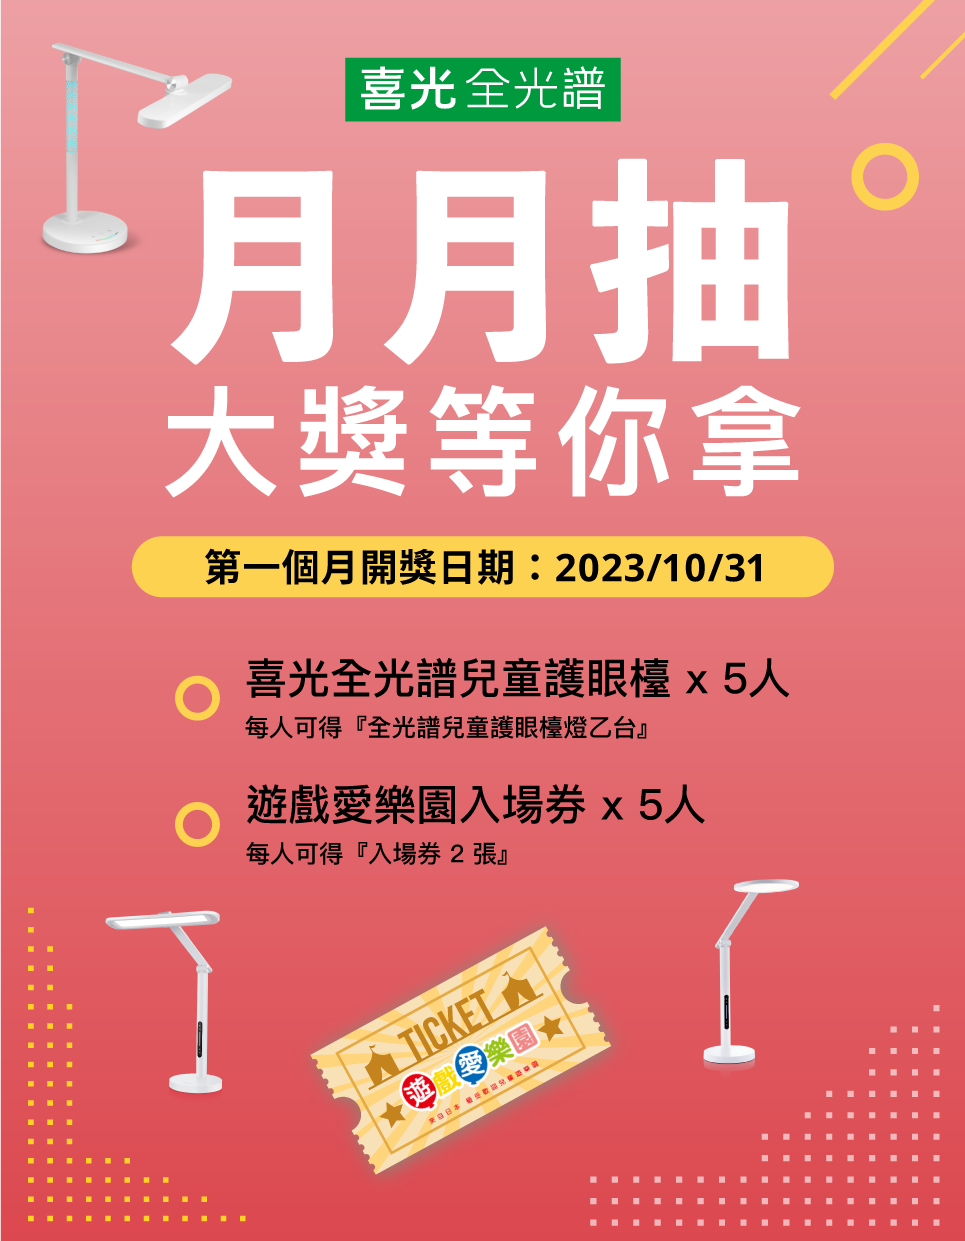
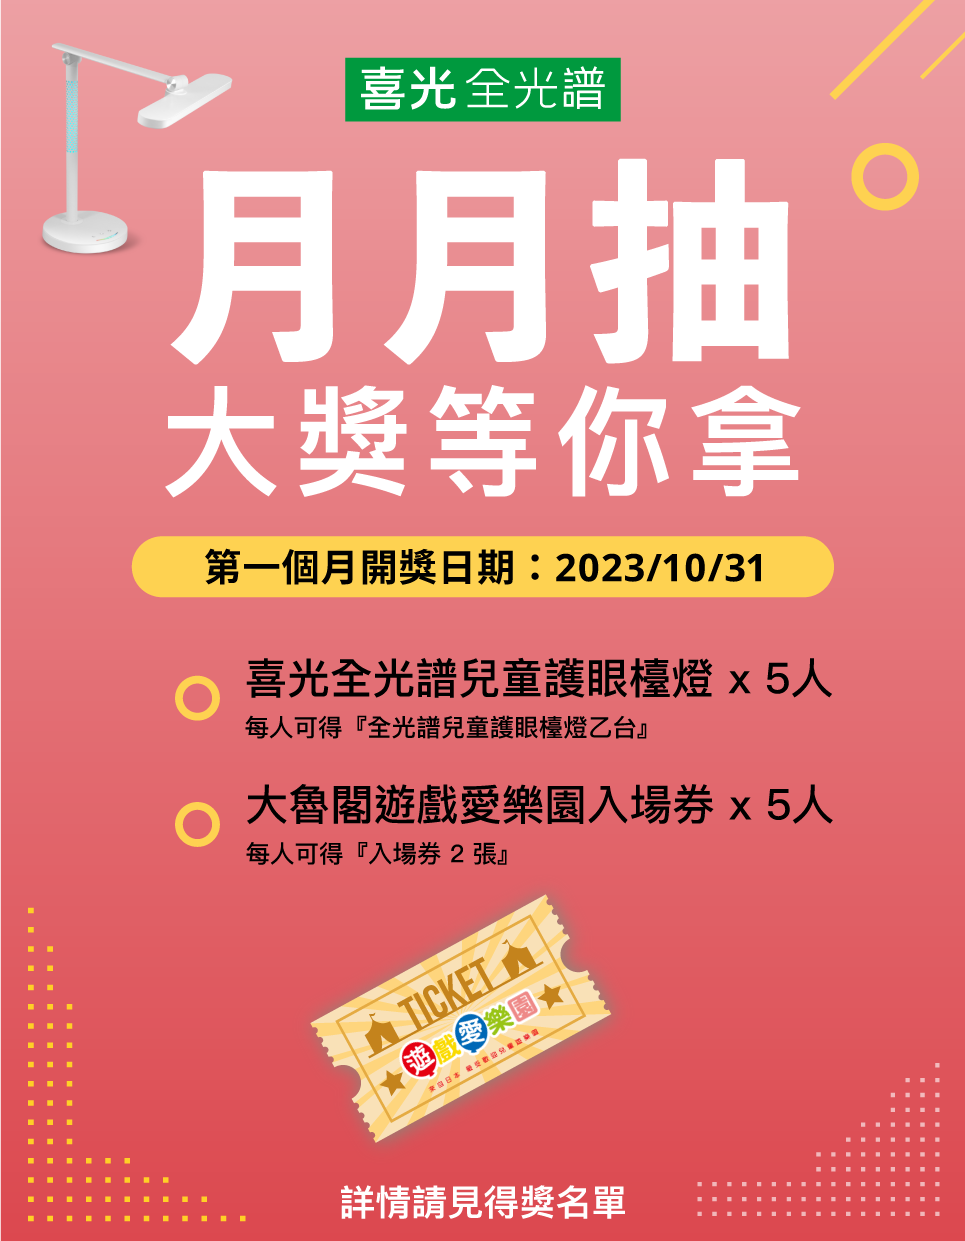
fix

diff --git a/src/App.vue b/src/App.vue
@@ -335,13 +335,23 @@ const fontFamily = {
 </p>
 
 <p>
-              <span class="font-bold">(2) 遊戲愛樂園入場券</span><br/>
+              <span class="font-bold">(2) 大魯閣遊戲愛樂園入場券</span><br/>
 中獎人數：5人，每人可得<span class="font-bold text-primary">『入場券 2 張』</span><br/><br/>
+<p class="text-sm text-gray-500">
+  使用期限：<br/>
+  2023年10月31日～ 2024年04月30日
+</p>
 <p class="text-sm text-gray-500">
   使用辦法：<br/>
   不限身高12歲以下：中壢中原萌獸公園店、中壢大潤發海洋公園店、新竹湳雅糖果公園店、台中新時代魔法公園店、高雄夢時代樹屋公園店、高雄Kuroro星際公園店
 <br/>
 限身高128公分以下：台北信義A8店、台北天母店、台南南紡店、高雄左營店<br/>
+</p>
+<p class="text-sm text-gray-500">
+  遊玩時間：<br/>
+  平日不限時，假日限時兩小時
+
+<br/>
 </p>
 </p>
           </div>
